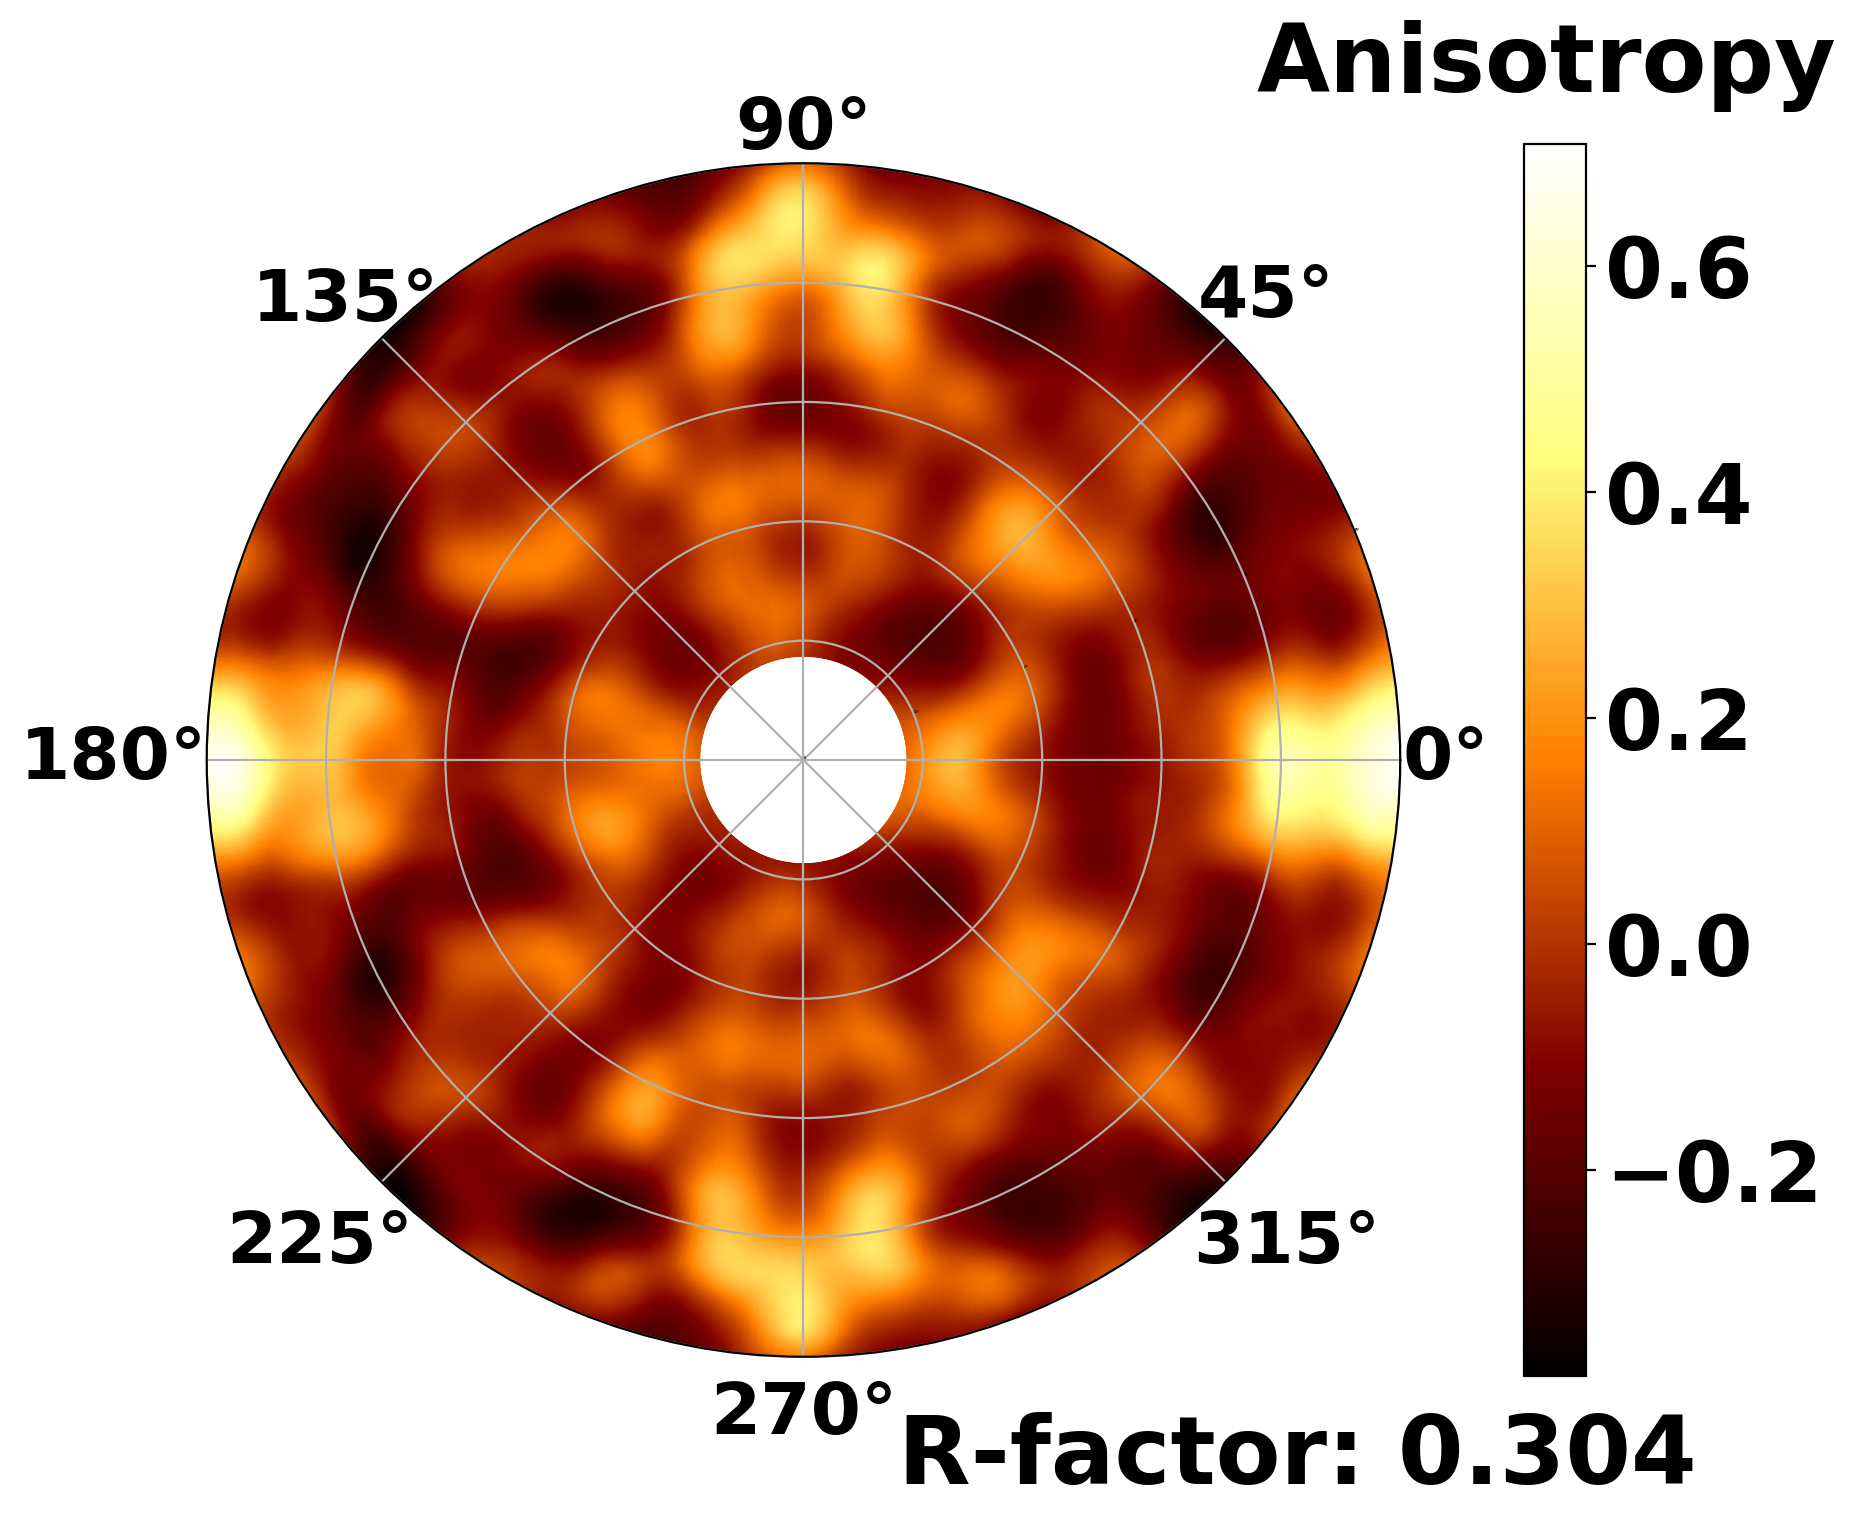
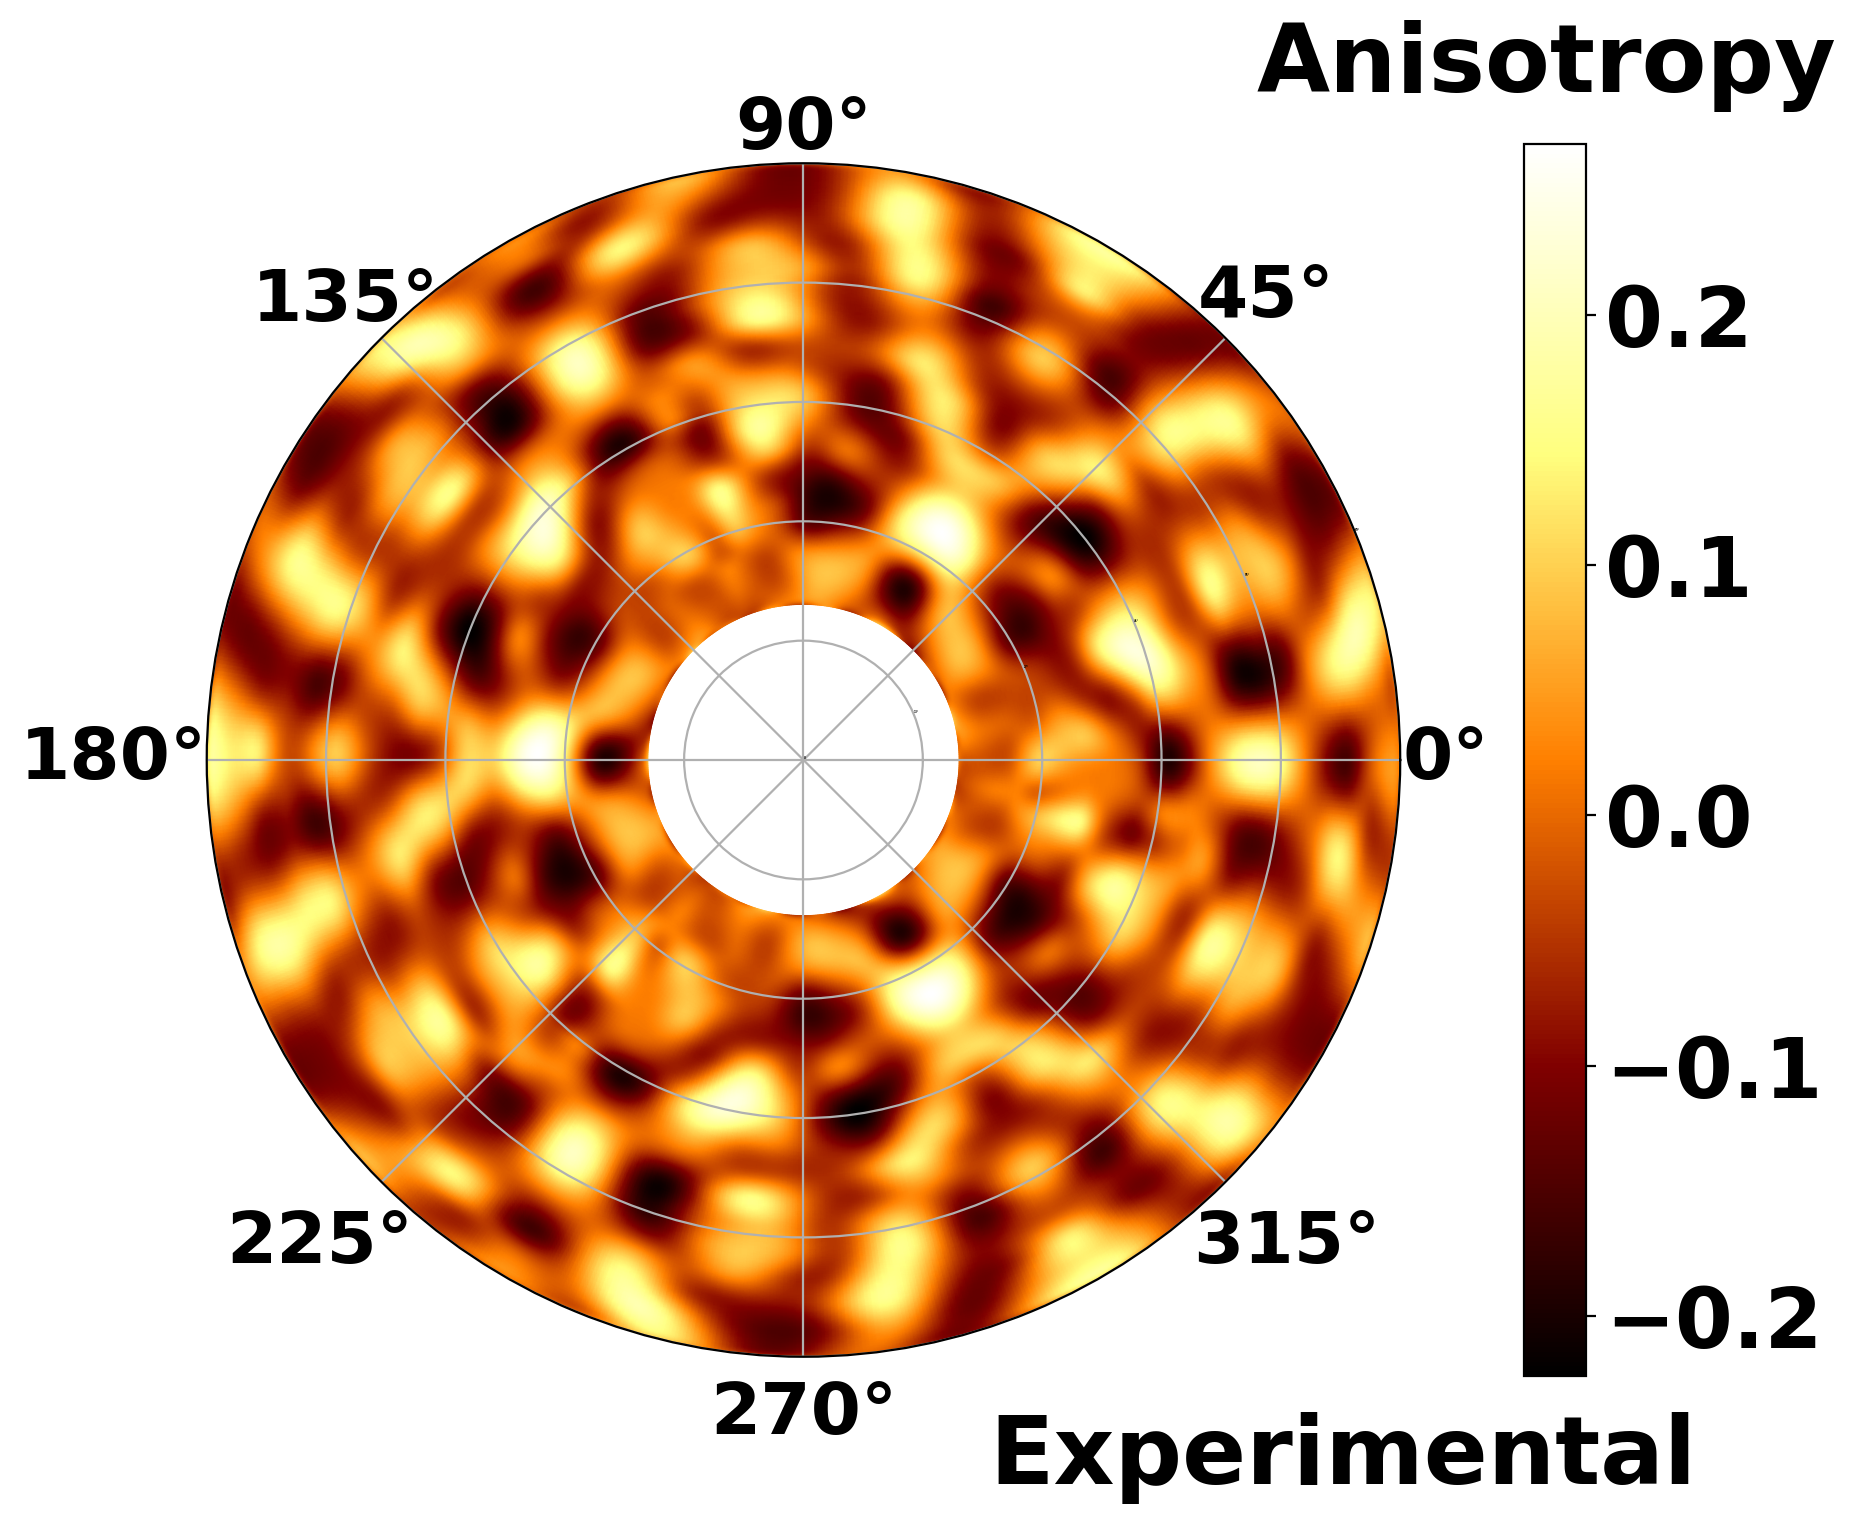
estabilidade alcançada

diff --git a/teo.py b/teo.py
@@ -1,0 +1,244 @@
+import sys
+import numpy as np
+import pandas as pd
+import matplotlib.pyplot as plt
+from scipy.interpolate import griddata
+
+def calcular_r_factor(df):
+    resultados = []
+    angulos = []
+    resultado_final4 = 0
+    n_total = 0
+
+    angulos_unicos = df['Theta'].unique()
+
+    # Acumuladores para o cálculo do Rtotal
+    todas_intensidades_exp = []
+    todas_intensidades_calc = []
+
+    for theta in angulos_unicos:
+        subset = df[df['Theta'] == theta]
+        # Garante que ordena por Phi para o cálculo bater linha a linha se necessário
+        # (Se os dados já vierem ordenados, não afeta)
+        phi = subset['Phi'].values
+        intensidade_calculada = np.round(subset['intensitycal'].values, 10)
+        intensidade_experimental = np.round(subset['intensityexp'].values, 10)
+
+        # Acumular todas as intensidades para o cálculo do Rtotal
+        todas_intensidades_exp.extend(intensidade_experimental)
+        todas_intensidades_calc.extend(intensidade_calculada)
+
+        # Normalização por theta
+        somatorio1 = np.round(np.sum(np.abs(intensidade_experimental)),10)
+        somatorio2 = np.round(np.sum(np.abs(intensidade_calculada)),10)
+
+        if somatorio1 == 0 or somatorio2 == 0:
+            continue
+
+        nova_coluna_exp = np.round((intensidade_experimental / somatorio1),10)
+        nova_coluna_calc = np.round((intensidade_calculada / somatorio2),10)
+
+        resultado_final1 = np.round(np.sum((nova_coluna_exp - nova_coluna_calc) ** 2),10)
+        resultado_final2 = np.round(np.sum(nova_coluna_exp ** 2 + nova_coluna_calc ** 2),10)
+
+        resultado_final3 = np.round((resultado_final1 / resultado_final2),10)
+        resultado_final4 += resultado_final3
+
+        resultados.append(resultado_final3)
+        angulos.append(theta)
+
+        n_total += 1
+
+    # Cálculo do R-factor médio
+    r_factor_medio = np.round((resultado_final4 / n_total),10) if n_total > 0 else None
+
+    # Cálculo do Rtotal usando todas as intensidades acumuladas
+    todas_intensidades_exp = np.round(np.array(todas_intensidades_exp),10)
+    todas_intensidades_calc = np.round(np.array(todas_intensidades_calc),10)
+
+    somatorio1_total = np.round(np.sum(np.abs(todas_intensidades_exp)),10)
+    somatorio2_total = np.round(np.sum(np.abs(todas_intensidades_calc)),10)
+
+    if somatorio1_total > 0 and somatorio2_total > 0:
+        nova_coluna_exp_total = np.round((todas_intensidades_exp / somatorio1_total),10)
+        nova_coluna_calc_total = np.round((todas_intensidades_calc / somatorio2_total),10)
+
+        resultado_final1_total = np.round(np.sum((nova_coluna_exp_total - nova_coluna_calc_total) ** 2),10)
+        resultado_final2_total = np.round(np.sum(nova_coluna_exp_total ** 2 + nova_coluna_calc_total ** 2),10)
+
+        r_factor_total = np.round((resultado_final1_total / resultado_final2_total),10)
+    else:
+        r_factor_total = None
+
+    return resultados, angulos, r_factor_medio, r_factor_total
+
+
+def process_file(file_path):
+    with open(file_path, 'r') as file:
+        lines = file.readlines()
+
+    data = []
+    theta_value = None
+
+    # Começa da linha 26 (ajuste se seu cabeçalho mudar)
+    for i in range(26, len(lines)):
+        line = lines[i].strip()
+
+        # Parar a leitura ao encontrar "fitted parameters ("
+        if "fitted parameters (" in line:
+            break
+
+        if line:
+            parts = line.split()
+
+            if len(parts) == 7:
+                theta_value = float(parts[3])
+
+            elif len(parts) == 5 and theta_value is not None:
+                phi = float(parts[0])
+                intensi1 = float(parts[1])
+                intensi2 = float(parts[2])
+                # Evita divisão por zero se intensi2 for 0
+                intensitycal = float((intensi1-intensi2)/intensi2) if intensi2 != 0 else 0.0
+                intensityexp = float(parts[4])
+                data.append([phi, intensitycal, theta_value, intensityexp, True])  # Marcar como original
+
+    df = pd.DataFrame(data, columns=['Phi', 'intensitycal', 'Theta', 'intensityexp', 'IsOriginal'])
+    
+    # 1. CÁLCULO DO R-FACTOR (Nos dados originais)
+    resultados, angulos, r_factor_medio, r_factor_total = calcular_r_factor(df)
+    for theta, r_factor in zip(angulos, resultados):
+        print(f'Theta: {theta}, R-factor: {r_factor}')
+
+    print(f'R-factor médio: {r_factor_medio}')
+    print(f'R-factor total: {r_factor_total}')
+
+    # -------------------------------------------------------------------------
+    # 2. LÓGICA DE SIMETRIA UNIVERSAL (INSERIDA AQUI)
+    # -------------------------------------------------------------------------
+    # Expande os dados (ex: 0-90) para 360 ANTES de criar os pontos fantasmas.
+    phi_interval = df['Phi'].max() - df['Phi'].min()
+    step = None
+    
+    if 170 < phi_interval < 190: 
+        step = 180
+    elif 80 < phi_interval < 135:
+        step = 120 if phi_interval > 105 else 90
+
+    if step is not None:
+        dfs_list = [df]
+        current_shift = step
+        while current_shift < 360:
+            df_new = df.copy()
+            # Módulo 360 para garantir que 485 vire 125, etc.
+            df_new['Phi'] = (df_new['Phi'] + current_shift) % 360
+            dfs_list.append(df_new)
+            current_shift += step
+        # Atualiza o df com a versão expandida
+        df = pd.concat(dfs_list, ignore_index=True)
+    # -------------------------------------------------------------------------
+
+    # 3. LÓGICA DE PONTOS FANTASMAS (GHOST POINTS) - A SUA LÓGICA
+    # Agora funciona perfeitamente pois o 'df' já tem dados perto de 360
+    df_plot = df.copy()
+    margin = 20 # Margem de 20 graus para cada lado
+    
+    # Pega o final (ex: 340-360) e joga para trás (-20 a 0)
+    subset_end = df_plot[df_plot['Phi'] > (360 - margin)].copy()
+    subset_end['Phi'] = subset_end['Phi'] - 360
+    
+    # Pega o início (ex: 0-20) e joga para frente (360 a 380)
+    subset_start = df_plot[df_plot['Phi'] < margin].copy()
+    subset_start['Phi'] = subset_start['Phi'] + 360
+    
+    # Junta tudo (df_plot agora vai de -20 a 380)
+    df_plot = pd.concat([df_plot, subset_end, subset_start], ignore_index=True)
+    
+    # Atualiza o df final para plotagem
+    df = df_plot.copy()
+    
+    return df, r_factor_total  # Retorna r_factor_total
+
+def interpolate_data(df, resolution=1000):
+    phi = np.radians(df['Phi'])
+    theta = np.radians(df['Theta'])
+    intensity = df['intensitycal']
+
+    phi_grid = np.linspace(np.min(phi), np.max(phi), resolution)
+    theta_grid = np.linspace(np.min(theta), np.max(theta), resolution)
+
+    phi_grid, theta_grid = np.meshgrid(phi_grid, theta_grid)
+
+    intensity_grid = griddata((phi, theta), intensity, (phi_grid, theta_grid), method='cubic')
+
+    return phi_grid, theta_grid, intensity_grid
+
+def plot_polar_interpolated(df, resolution=500, line_position=0.5, my_variable=None, save_path=None):
+    # Interpolar os dados
+    plt.ion()
+    phi_grid, theta_grid, intensity_grid = interpolate_data(df, resolution)
+
+    # Criando o gráfico polar
+    fig, ax = plt.subplots(subplot_kw={'projection': 'polar'}, figsize=(10, 8), dpi=100)
+
+    # Plotando a intensidade interpolada
+    c = ax.pcolormesh(phi_grid, theta_grid, intensity_grid, shading='gouraud', cmap='afmhot')
+
+    # Definir o limite máximo do eixo theta com base no maior valor de theta nos dados
+    max_theta = df['Theta'].max()  # Maior valor de theta presente nos dados
+    ax.set_ylim(0, np.radians(max_theta))  # Limitar o eixo radial até o maior valor de theta
+
+    # Adiciona rótulos para os ângulos theta
+    theta_ticks = np.linspace(0, max_theta, num=6)
+    ax.set_yticks(np.radians(theta_ticks))
+    ax.set_yticklabels([f'{int(tick)}°' for tick in theta_ticks])
+
+    # Adicionando a barra de cores
+    cbar = fig.colorbar(c, ax=ax, label='', pad=0.08)
+    cbar.set_label('', fontsize=22, fontweight='bold')
+    cbar.ax.yaxis.set_tick_params(labelsize=30)
+    for label in cbar.ax.get_yticklabels():
+        label.set_fontweight('bold')
+        
+    # Adiciona a variável fora do gráfico
+    if my_variable is not None:
+        fig.text(0.87, 0.03, f'R-factor: {my_variable}', fontsize=34, color='black', ha='right', va='bottom',
+                 fontweight='bold')
+                 
+    Anysotropy = "Anisotropy"
+    fig.text(0.94, 0.9,  Anysotropy, fontsize=34, color='black', ha='right', va='bottom',
+             fontweight='bold')
+             
+    # Definir manualmente os ângulos de Phi
+    phi_ticks = np.linspace(0, 2 * np.pi, num=9)[:-1]
+    phi_labels = [f'{int(np.degrees(tick))}°' for tick in phi_ticks]
+    ax.set_xticks(phi_ticks)
+    ax.set_xticklabels(phi_labels, fontsize=26, fontweight='bold')
+
+    # Ajustar individualmente os pads
+    pad_values = [1, -1, 3, 0, -7, -6, -1, -6]
+    for label, pad in zip(ax.get_xticklabels(), pad_values):
+        label.set_y(label.get_position()[1] + pad * 0.01)
+
+    ax.tick_params(pad=8)
+    plt.yticks(fontsize=0, fontweight='bold')
+    plt.draw()
+
+    if save_path:
+        plt.savefig(save_path, dpi=200, bbox_inches='tight')
+
+    plt.pause(600)
+
+
+# Caminho do arquivo
+if __name__ == "__main__":
+    if len(sys.argv) > 1:
+        file_path = sys.argv[1]
+        save_path = 'grafico_polar3.png'
+        df, r_factor_total = process_file(file_path)
+        
+        my_variable = "{:.3f}".format(r_factor_total) if r_factor_total is not None else "N/A"
+        
+        plot_polar_interpolated(df, resolution=500, line_position=0.5, my_variable=my_variable, save_path=save_path)
+    else:
+        print("Por favor, forneça o caminho do arquivo como argumento.")

diff --git a/exp.py b/exp.py
@@ -71,7 +71,7 @@ def calcular_r_factor(df):
     return resultados, angulos, r_factor_medio, r_factor_total
 
 
-def process_file(file_path):
+def process_file_plot(file_path):
     with open(file_path, 'r') as file:
         lines = file.readlines()
 
@@ -177,7 +177,7 @@ def process_file(file_path):
     # o 0 e o 360 sem deixar cicatriz nenhuma.
     return df, r_factor_total  # Retorna r_factor_total
 
-def interpolate_data(df, resolution=1000):
+def interpolate_data_plot(df, resolution=1000):
     # Converte os dados de entrada para radianos
     phi = np.radians(df['Phi'])
     theta = np.radians(df['Theta'])
@@ -198,11 +198,11 @@ def interpolate_data(df, resolution=1000):
     intensity_grid = griddata((phi, theta), intensity, (phi_grid, theta_grid), method='cubic')
 
     return phi_grid, theta_grid, intensity_grid
-def plot_polar_interpolated(df, resolution=500, line_position=0.5, my_variable=None, save_path=None):
+def plot_polar_interpolated_plot(df, resolution=500, line_position=0.5, my_variable=None, save_path=None):
     plt.ion()
     
     # 1. Interpolação (Agora gera apenas 0 a 360, limpo)
-    phi_grid, theta_grid, intensity_grid = interpolate_data(df, resolution)
+    phi_grid, theta_grid, intensity_grid = interpolate_data_plot(df, resolution)
     
     sigma = 4 # Pode ajustar esse valor
 
@@ -269,7 +269,7 @@ def plot_polar_interpolated(df, resolution=500, line_position=0.5, my_variable=N
 # Caminho do arquivo
 file_path = 'teste.txt'
 save_path = 'grafico_polar3.png'
-df,r_total = process_file(file_path)
+df,r_total = process_file_plot(file_path)
 #r_factor_total=0.276
 my_variable = "Experimental"
-plot_polar_interpolated(df, resolution=500, line_position=0.5, my_variable=my_variable, save_path=save_path)
+plot_polar_interpolated_plot(df, resolution=500, line_position=0.5, my_variable=my_variable, save_path=save_path)

diff --git a/exp120.py b/exp120.py
@@ -71,7 +71,7 @@ def calcular_r_factor(df):
     return resultados, angulos, r_factor_medio, r_factor_total
 
 
-def process_file(file_path):
+def process_file_plot(file_path):
     with open(file_path, 'r') as file:
         lines = file.readlines()
 
@@ -177,7 +177,7 @@ def process_file(file_path):
     # o 0 e o 360 sem deixar cicatriz nenhuma.
     return df, r_factor_total  # Retorna r_factor_total
 
-def interpolate_data(df, resolution=1000):
+def interpolate_data_plot(df, resolution=1000):
     # Converte os dados de entrada para radianos
     phi = np.radians(df['Phi'])
     theta = np.radians(df['Theta'])
@@ -198,11 +198,11 @@ def interpolate_data(df, resolution=1000):
     intensity_grid = griddata((phi, theta), intensity, (phi_grid, theta_grid), method='cubic')
 
     return phi_grid, theta_grid, intensity_grid
-def plot_polar_interpolated(df, resolution=500, line_position=0.5, my_variable=None, save_path=None):
+def plot_polar_interpolated_plot(df, resolution=500, line_position=0.5, my_variable=None, save_path=None):
     plt.ion()
     
     # 1. Interpolação (Agora gera apenas 0 a 360, limpo)
-    phi_grid, theta_grid, intensity_grid = interpolate_data(df, resolution)
+    phi_grid, theta_grid, intensity_grid = interpolate_data_plot(df, resolution)
     
     sigma = 4 # Pode ajustar esse valor
 
@@ -269,7 +269,7 @@ def plot_polar_interpolated(df, resolution=500, line_position=0.5, my_variable=N
 # Caminho do arquivo
 file_path = 'teste.txt'
 save_path = 'grafico_polar3.png'
-df,r_total = process_file(file_path)
+df,r_total = process_file_plot(file_path)
 #r_factor_total=0.276
 my_variable = "Experimental"
-plot_polar_interpolated(df, resolution=500, line_position=0.5, my_variable=my_variable, save_path=save_path)
+plot_polar_interpolated_plot(df, resolution=500, line_position=0.5, my_variable=my_variable, save_path=save_path)

diff --git a/read_lnls.py b/read_lnls.py
@@ -1103,3 +1103,4 @@ df, df_plot = process_file(file_path, 1, rotate_angle)
 
 save_to_txt_with_blocks(df, arquivo_saida)
 
+
